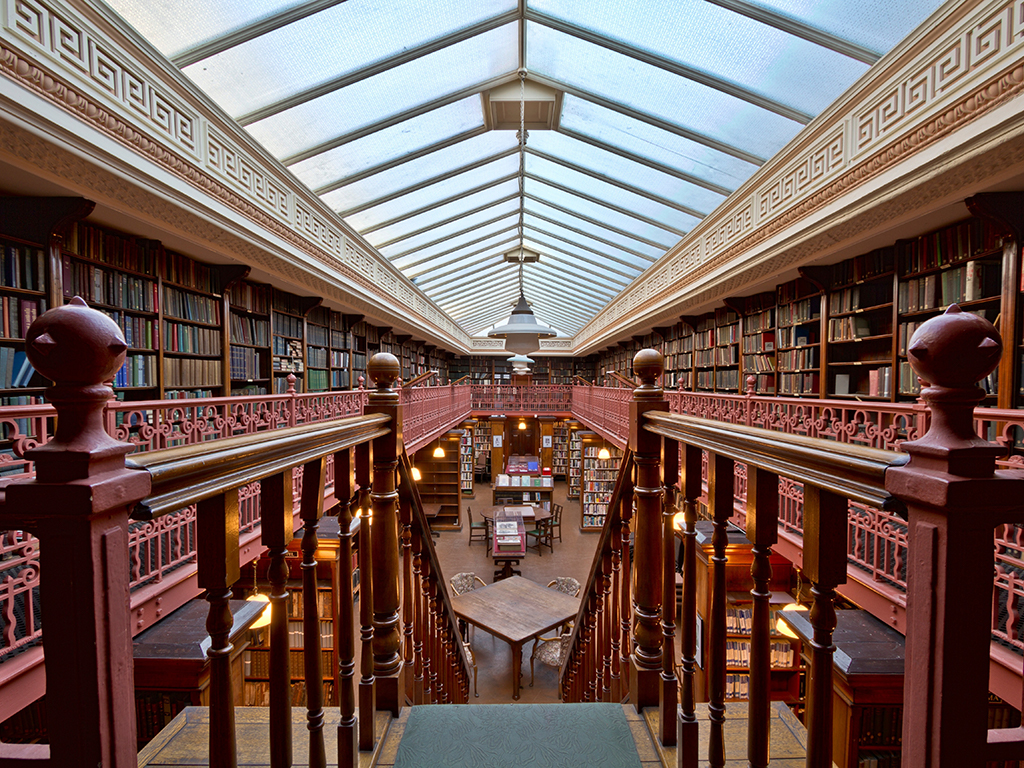
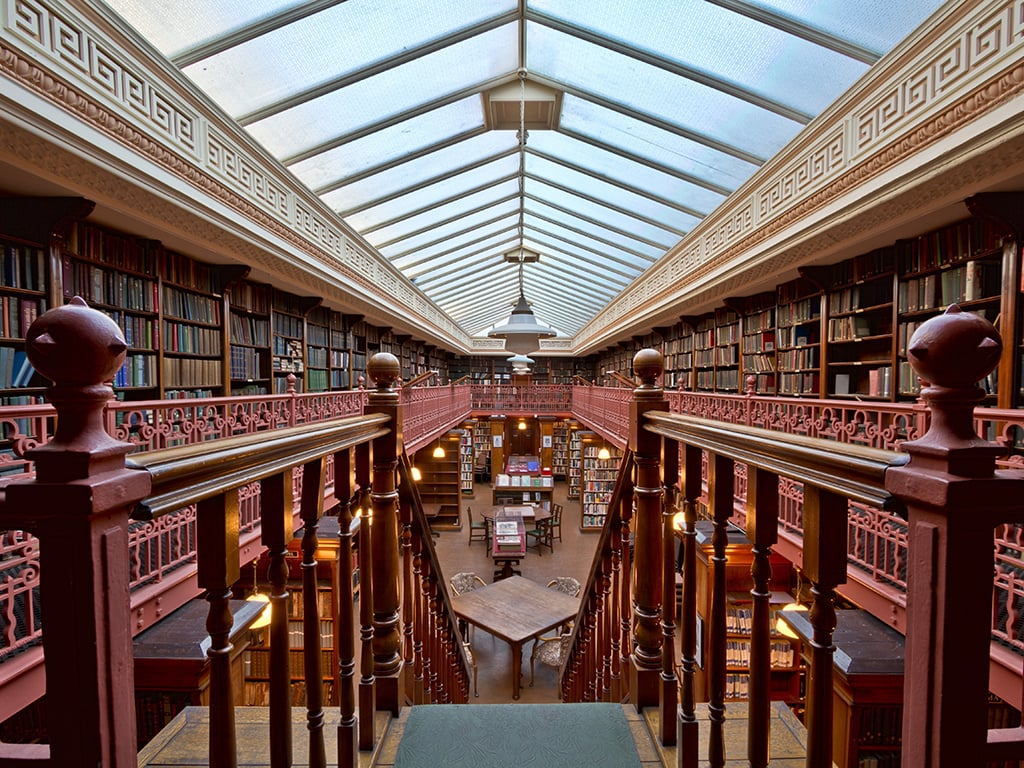
Optimize images. Add post from 2017 dec.

diff --git a/assets/_partials/css/main.scss b/assets/_partials/css/main.scss
@@ -108,13 +108,14 @@ h4 {
   font-family: 'Muli', sans-serif;
   font-weight: 400;
 }
-p {
+li, p {
   font-size: 14px;
   font-family: 'Open Sans', sans-serif;
   font-weight: 300;
   text-align: justify;
   text-justify: inter-word;
 }
+
 a {
 
   -webkit-transition: all 0.2s linear;

diff --git a/_posts/2017-12-10-Smart-goals.md b/_posts/2017-12-10-Smart-goals.md
@@ -1,0 +1,33 @@
+---
+layout: post
+title: "SMART"
+image: /assets/img/blog/smart.jpg
+description: "My final CC speech for toastmasters - on how to finish CC by playing smart"
+tags: [toastmasters]
+excerpt: My final CC speech for toastmasters - on how to finish CC by playing smart
+imgSrc: "Image by Estée Janssens from [Unsplash](https://unsplash.com/photos/zEqkUMiMxMI)"
+---
+
+Here are the contents of my CC#10. Timed right before the new year, this speech explores setting up successful goals and achieving them.
+
+I was looking through my files last week when I fell upon a rusty old document lying there. It was my new year’s resolution from last January. It was not a great sight. Do I look better than Brad Pitt? No. Am I richer than Bill Gates. No. Am I more popular than Donald Trump. Definitely not. I couldn’t even become happier than the laughing buddha. Friends I have failed at my new year’s resolutions, this year, just like last year. How many of you actually write resolutions and succeed in them? <What do you write???> As a consolation, I got one right this time. In 6 minutes from now, I will be a Competent Communicator. 20% success. Not that bad.
+
+Looking back, I realize CC was the only goal that I had which was Smart. Not the smart smart – but the smart defined by George Doran in 1981 - Specific, Measurable, Actionable, Realistic, Time-Bound.
+
+**Specific** – CC was my only specific goal. Ten speeches. Twelve months. Bill Gates is a moving target. He is not even the richest man on the planet any more. I shouldn’t have tried to beat him.
+
+**Measurable** – CC is measurable. At the six-month line, I had done 5 speeches. I knew I was at 50%.  I bought a new dress. Trimmed my hair. By how much did I get closer to Mr. Pitt. I don’t know?
+
+**Actionable** – CC has clear steps to get through. Each speech defines what to do next. Evaluators tell me exactly what I need to improve. What do I do to become happier? Can anyone know.
+
+**Realistic** – A speech a month is practical target. To beat Bill Gates, I need to earn 8 billion dollars a month. I won’t get that even if I sit on a gold mine.
+
+**Time Bound** – The time to finish a new year resolution is and should be one year. Richer than Gates has been on the list for ten years now. Not a good time bound test. Don’t write Jeff Bezos in the next list. It is the same resolution. Build a new one.
+
+Now that the official list is done, let me tell you the real list, were you planning to right one for next year.
+
+1. **Always cheat** – I started CC last year. I was 20% done already. That way I was mostly ahead of the curve. It really felt better.
+2. **Reward yourself** – Have a chocolate after each success. Even if you are trying to reduce weight. Reward is important. Just like what I got in the evaluation forms.
+3. **Enjoy it** – The journey should be better than the reward. Gorging money from others won’t make you richer. Shaming yourself on the internet won’t make you popular. Laughing on others won’t make you happier. Enjoying the journey while you do it -that will make all the difference.
+
+Now I want you all to take your agenda and revert it. Let’s write our resolutions for next year. 3 goals in the next one minute.  Make them smart – specific – no moving targets, measurable – clear steps, actionable – where you know what to do, realistic – something that’s possible and time bound – that completes in one year. Think of things you always wanted to do. Think of things you’ve already started. Think of things where you can cheat. Think of things that are not on your last year’s list. Now that the time is up – How many of you want to give speeches next year. Buy a box of chocolates one for each speech and put it next to your alarm clock. Eat it once you complete the speech. Remember to keep it enjoyable for speaking should be fun. And be ahead of the curve by booking it early. There is a meeting on January 7 and one slot is open. I am the toastmaster, you can book it right now. Do I have a speaker?
